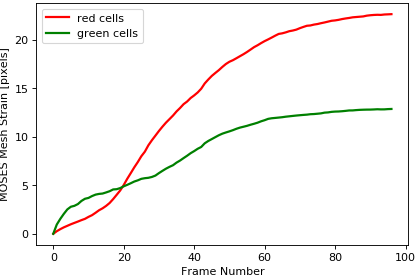
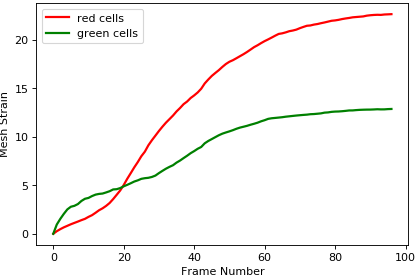
added MOSES mesh strain vector demo

Changed region(s): [[0.0, 0.1733, 0.0312, 0.722]]

diff --git a/run_single_video_example.py b/run_single_video_example.py
@@ -31,9 +31,9 @@ if __name__=="__main__":
     from Utility_Functions.file_io import read_multiimg_PIL
     from Visualisation_Tools.track_plotting import plot_tracks
     from Track_Filtering.filter_meantracks_superpixels import filter_red_green_tracks
-    from Motion_Analysis.mesh_statistics_tools import construct_MOSES_mesh, from_neighbor_list_to_graph, compute_MOSES_mesh_strain_curve, compute_motion_saliency_map, compute_boundary_formation_index, compute_MOSES_motion_stability_index, compute_max_vccf_cells_before_after_gap, compute_mesh_disorder, compute_spatial_correlation_function, compute_mesh_disorder_index
+    from Motion_Analysis.mesh_statistics_tools import construct_MOSES_mesh, from_neighbor_list_to_graph, compute_MOSES_mesh_strain_curve, construct_mesh_strain_vector, compute_motion_saliency_map, compute_boundary_formation_index, compute_MOSES_mesh_stability_index, compute_max_vccf_cells_before_after_gap, compute_spatial_correlation_function, compute_mesh_principal_strain_angle_ellipse, compute_mesh_order
     from Motion_Analysis.wound_close_sweepline_area_segmentation import wound_sweep_area_segmentation
-    from Visualisation_Tools.mesh_visualisation import visualise_mesh
+    from Visualisation_Tools.mesh_visualisation import visualise_mesh, visualise_mesh_strain_ellipses
     from skimage.filters import gaussian
 
     """
@@ -47,8 +47,9 @@ if __name__=="__main__":
     """
     print 'reading .tif video ...'
     vidstack = read_multiimg_PIL(infile)
-    _, n_rows, n_cols, _ = vidstack.shape
+    n_frames, n_rows, n_cols, _ = vidstack.shape
     
+    print('Size of video: (%d,%d,%d)' %(n_frames,n_rows,n_cols))
     
     """
     3. Superpixel tracks with optical flow algorithm, compute 1 for each relevant color channel.
@@ -57,8 +58,8 @@ if __name__=="__main__":
     
     """
     print 'extracting superpixel tracks from video, can be slow...'
-    meantracks_r = compute_grayscale_vid_superpixel_tracks(vidstack[:,:,:,0], optical_flow_params, n_spixels)
-    meantracks_g = compute_grayscale_vid_superpixel_tracks(vidstack[:,:,:,1], optical_flow_params, n_spixels)
+    optflow_r, meantracks_r = compute_grayscale_vid_superpixel_tracks(vidstack[:,:,:,0], optical_flow_params, n_spixels)
+    optflow_g, meantracks_g = compute_grayscale_vid_superpixel_tracks(vidstack[:,:,:,1], optical_flow_params, n_spixels)
     
     # save the output:
     savetracksmat = ('meantracks_'+infile).replace('.tif', '.mat')
@@ -128,9 +129,7 @@ if __name__=="__main__":
     MOSES_mesh_strain_time_r, MOSES_mesh_neighborlist_r = construct_MOSES_mesh(meantracks_r, dist_thresh=1.2, spixel_size=spixel_size)
     MOSES_mesh_strain_time_g, MOSES_mesh_neighborlist_g = construct_MOSES_mesh(meantracks_g, dist_thresh=1.2, spixel_size=spixel_size)
     
-    MOSES_mesh_strain_r = MOSES_mesh_strain_time_r.mean(axis=-1)
-    MOSES_mesh_strain_g = MOSES_mesh_strain_time_g.mean(axis=-1)
-    
+
     # visualise the two meshes independently by exploiting networkx for a chosen frame .e.g. 20, first turn the neighborlist into a networkx graph object.
     mesh_frame20_networkx_G_red = from_neighbor_list_to_graph(meantracks_r, MOSES_mesh_neighborlist_r, 20)
     mesh_frame20_networkx_G_green = from_neighbor_list_to_graph(meantracks_g, MOSES_mesh_neighborlist_g, 20)
@@ -161,6 +160,17 @@ if __name__=="__main__":
     ax.set_xlim([0,n_cols])
     fig.savefig('mesh_frame20_green.png', dpi=height)
     
+    # we can plot the mesh strain in terms of the local strain ellipse based on the normalised direction of displacement/stretching at the same timepoint.
+    eigenvalues_time, eigenangles_time, stretch_ratio_time, select_time = compute_mesh_principal_strain_angle_ellipse(meantracks_r, MOSES_mesh_neighborlist_r, point_thresh=8)
+    
+    # red ellipses show highly distorted regions (regions of high point density)
+    fig, ax = plt.subplots()
+    ax.imshow(vidstack[20], alpha=0.5)
+    visualise_mesh_strain_ellipses(mesh_frame20_networkx_G_red, meantracks_r[:,20,[1,0]], 
+                                   eigenvalues_time[20], eigenangles_time[20], spixel_size, ax, mask =select_time[20],
+                                   node_size=10, width=.3, linewidths=.5, node_color='k')
+    plt.show()
+    
     
     """
     6. Normalised mesh strain, computes the mesh strain curve for each colour and combines them to produce the normalised mesh strain for the video which is used as a motion signature.
@@ -179,6 +189,8 @@ if __name__=="__main__":
     plt.ylabel('Mesh Strain')
     plt.legend(loc='best')
     plt.savefig('MOSES_mesh_strain_curve_red-green.png', dpi=80, bbox_inches='tight', pad_inches=0)
+    plt.show()
+    
     
     """
     7. Infer the gap closure frame, using image segmentation.
@@ -192,16 +204,14 @@ if __name__=="__main__":
     """
     8. Compute the Metrics Presented in the paper:
         a) Boundary formation index
-        b) Motion Stability Index
+        b) Mesh Stability Index
         c) Max. Velocity cross correlation Index
         d) Spatial Correlation 
-        e) Mesh Disorder Index
+        e) Mesh Order Curve/Index
     """
     #==============================================================================
     #     a) Boundary Formation Index.
     #==============================================================================
-    print 'predicted gap closure frame is: %d' 
-    
     final_saliency_map_r, spatial_time_saliency_map_r = compute_motion_saliency_map(meantracks_r, dist_thresh=5.*spixel_size, shape=(n_rows, n_cols), filt=1, filt_size=spixel_size)
     final_saliency_map_g, spatial_time_saliency_map_g = compute_motion_saliency_map(meantracks_g, dist_thresh=5.*spixel_size, shape=(n_rows, n_cols), filt=1, filt_size=spixel_size)
     
@@ -221,9 +231,9 @@ if __name__=="__main__":
     #==============================================================================
     
     # returns the combined normalised mesh strain curve.
-    motion_stability_index, normalised_mesh_strain_curve = compute_MOSES_motion_stability_index(MOSES_mesh_strain_time_r, MOSES_mesh_strain_time_g, last_frames=5)
+    mesh_stability_index, normalised_mesh_strain_curve = compute_MOSES_mesh_stability_index(MOSES_mesh_strain_time_r, MOSES_mesh_strain_time_g, last_frames=5)
     
-    print 'motion stability index: %.3f' %(motion_stability_index)
+    print 'mesh stability index: %.3f' %(mesh_stability_index)
     
     #==============================================================================
     #     c) Max. Velocity Cross-Correlation Index
@@ -251,27 +261,42 @@ if __name__=="__main__":
 
     
     #==============================================================================
-    #     e) Mesh Disorder Index + visualization, red ellipses show excluded regions.
+    #     e) Mesh Order Curve + mesh strain vector
     #==============================================================================
-    mesh_disorder_curve_r = compute_mesh_disorder(meantracks_r, MOSES_mesh_neighborlist_r, 2*4, to_plot=True, frame_plot=30) # if to_plot, displays the mesh with ellipses. red ellipses is excluded points due to high density as set by the threshold, blue ellipses is included in calculation.
-    mesh_disorder_curve_g = compute_mesh_disorder(meantracks_g, MOSES_mesh_neighborlist_g, 2*4, to_plot=True, frame_plot=30)
+    mesh_strain_vector_r = construct_mesh_strain_vector(meantracks_r, [MOSES_mesh_neighborlist_r]) # if to_plot, displays the mesh with ellipses. red ellipses is excluded points due to high density as set by the threshold, blue ellipses is included in calculation.
+    mesh_strain_vector_g = construct_mesh_strain_vector(meantracks_g, [MOSES_mesh_neighborlist_g])
 
-    av_mesh_disorder_curve = .5*(mesh_disorder_curve_r+mesh_disorder_curve_g)
-    mesh_disorder_index = compute_mesh_disorder_index(av_mesh_disorder_curve, wound_closure_frame) # mesh disorder index is just the median value before wound closure.
-    
+    mesh_order_curve_r = compute_mesh_order(mesh_strain_vector_r, remove_mean=False)
+    mesh_order_curve_g = compute_mesh_order(mesh_strain_vector_g, remove_mean=False)
     
     plt.figure()
-    plt.title('Mesh Disorder Index (before closure): %.3f' %(mesh_disorder_index))
-    plt.plot(av_mesh_disorder_curve, label='mesh disorder curve')
-    plt.plot(wound_closure_frame-1, av_mesh_disorder_curve[wound_closure_frame-1], 'ko', label='gap closure frame')
-    plt.plot([wound_closure_frame-1, wound_closure_frame-1], [np.min(av_mesh_disorder_curve), av_mesh_disorder_curve[wound_closure_frame-1]], 'k--')
-    plt.plot([0, wound_closure_frame-1], [av_mesh_disorder_curve[wound_closure_frame-1], av_mesh_disorder_curve[wound_closure_frame-1]], 'k--')
+    plt.title('Mesh Order')
+    plt.plot(mesh_order_curve_r, label='Red')
+    plt.plot(mesh_order_curve_g, label='Green')
     plt.legend(loc='best')
     plt.xlabel('Frame Number')
-    plt.ylabel('Mesh Disorder')
+    plt.ylabel('Mesh Order')
+    plt.show()
+    
 
-    print 'Mesh disorder index of video: %.3f' %(mesh_disorder_index)
-
+    # we can also visualise the mesh strain vector on the mesh using matplotlib quiver plot 
+    fig, ax = plt.subplots()
+    ax.imshow(vidstack[20], alpha=0.5)
+    visualise_mesh(mesh_frame20_networkx_G_red, meantracks_r[:,20,[1,0]], ax, node_size=.5, node_color='r')
+    ax.quiver(meantracks_r[:,20,1], meantracks_r[:,20,0], mesh_strain_vector_r[20,:,1], mesh_strain_vector_r[20,:,0], color='r', scale_units='xy')
+    # note the minus sign for the y vector velocity. This is to abide with image conventions used in python.
+    ax.set_ylim([n_rows,0])
+    ax.set_xlim([0,n_cols])
+    plt.show()
+    
+    fig, ax = plt.subplots()
+    ax.imshow(vidstack[20], alpha=0.5)
+    visualise_mesh(mesh_frame20_networkx_G_green, meantracks_g[:,20,[1,0]], ax, node_size=.5, node_color='g')
+    ax.quiver(meantracks_g[:,20,1], meantracks_g[:,20,0], mesh_strain_vector_g[20,:,1], mesh_strain_vector_g[20,:,0], color='g', scale_units='xy')
+    # note the minus sign for the y vector velocity. This is to abide with image conventions used in python.
+    ax.set_ylim([n_rows,0])
+    ax.set_xlim([0,n_cols])
+    plt.show()
     
     
     

diff --git a/Motion_Analysis/mesh_statistics_tools.py b/Motion_Analysis/mesh_statistics_tools.py
@@ -107,9 +107,10 @@ def construct_mesh_strain_vector(tracks, neighbours):
     n_regions, n_frames, _ = tracks.shape
 
     if len(neighbours) == 1:
-        continue
-    elif len(neighbours)!= n_frames:
-        raise Exception('number of neighbour lists should equal number of frames or 1')
+        pass
+    else: 
+        if len(neighbours)!= n_frames:
+            raise Exception('number of neighbour lists should equal number of frames or 1')
 
     # now for each superpixel we can compute the average distance to its neighbours. 
     mesh_strain_time_vector = []
